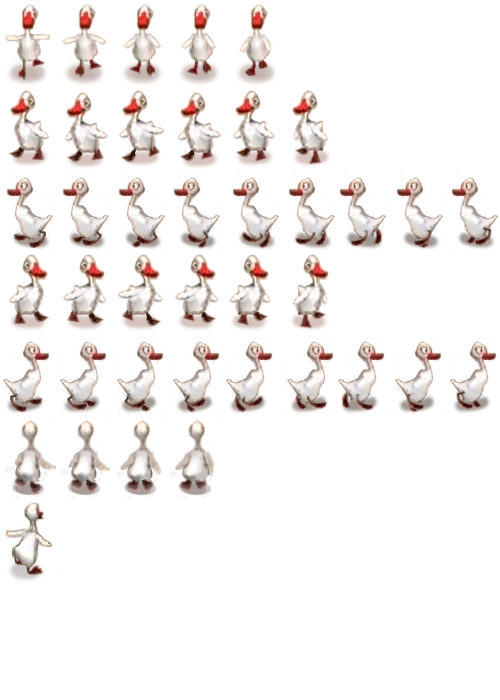
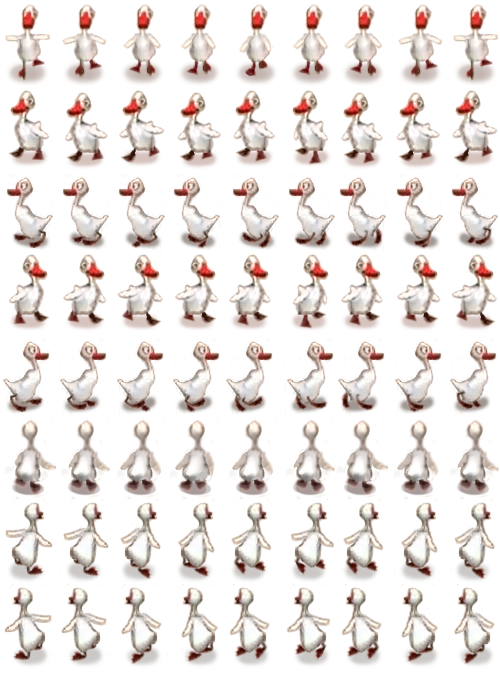
duck animation

diff --git a/main.cpp b/main.cpp
@@ -7,121 +7,16 @@ class Ferma : public app::GameApp {
 
  private:
   void Initialize() override {
-    // Тут загружаем ресурсы: картинки и прочее
     render::LoadResource("resources/images/egg.png", "egg"); 
     render::LoadResource("resources/images/backdrop.png", "backdrop");
     render::LoadResource("resources/images/duck.png", "duck");
-    
-    render::LoadResource("resources/images/d_r1.png", "d_r1"); 
-    render::LoadResource("resources/images/d_r2.png", "d_r2"); 
-    render::LoadResource("resources/images/d_r3.png", "d_r3"); 
-    render::LoadResource("resources/images/d_r4.png", "d_r4"); 
-    render::LoadResource("resources/images/d_r5.png", "d_r5"); 
-    render::LoadResource("resources/images/d_r6.png", "d_r6"); 
-    render::LoadResource("resources/images/d_r7.png", "d_r7"); 
-    render::LoadResource("resources/images/d_r8.png", "d_r8"); 
-    render::LoadResource("resources/images/d_r9.png", "d_r9");
-
-    render::LoadResource("resources/images/d_l1.png", "d_l1"); 
-    render::LoadResource("resources/images/d_l2.png", "d_l2"); 
-    render::LoadResource("resources/images/d_l3.png", "d_l3"); 
-    render::LoadResource("resources/images/d_l4.png", "d_l4"); 
-    render::LoadResource("resources/images/d_l5.png", "d_l5"); 
-    render::LoadResource("resources/images/d_l6.png", "d_l6"); 
-    render::LoadResource("resources/images/d_l7.png", "d_l7"); 
-    render::LoadResource("resources/images/d_l8.png", "d_l8"); 
-    render::LoadResource("resources/images/d_l9.png", "d_l9");
-
-    render::LoadResource("resources/images/d_u1.png", "d_u1"); 
-    render::LoadResource("resources/images/d_u2.png", "d_u2"); 
-    render::LoadResource("resources/images/d_u3.png", "d_u3"); 
-    render::LoadResource("resources/images/d_u4.png", "d_u4"); 
-
-    render::LoadResource("resources/images/d_d1.png", "d_d1"); 
-    render::LoadResource("resources/images/d_d2.png", "d_d2"); 
-    render::LoadResource("resources/images/d_d3.png", "d_d3"); 
-    render::LoadResource("resources/images/d_d4.png", "d_d4"); 
-    render::LoadResource("resources/images/d_d5.png", "d_d5"); 
-
-    render::LoadResource("resources/images/d_l_d1.png", "d_l_d1"); 
-    render::LoadResource("resources/images/d_l_d2.png", "d_l_d2"); 
-    render::LoadResource("resources/images/d_l_d3.png", "d_l_d3"); 
-    render::LoadResource("resources/images/d_l_d4.png", "d_l_d4"); 
-    render::LoadResource("resources/images/d_l_d5.png", "d_l_d5"); 
-    render::LoadResource("resources/images/d_l_d5.png", "d_l_d6"); 
-
-    render::LoadResource("resources/images/d_r_d1.png", "d_r_d1"); 
-    render::LoadResource("resources/images/d_r_d2.png", "d_r_d2"); 
-    render::LoadResource("resources/images/d_r_d3.png", "d_r_d3"); 
-    render::LoadResource("resources/images/d_r_d4.png", "d_r_d4"); 
-    render::LoadResource("resources/images/d_r_d5.png", "d_r_d5"); 
-    render::LoadResource("resources/images/d_r_d5.png", "d_r_d6"); 
-
   }
 
   void Render() override {
-    // тут всё рисуем
-    render::DrawImage("backdrop", 1, 1, 800, 600); // в координатах x, y рисуем ресурс с именем "apple"
-    //render::DrawImage("egg", x, y); // в координатах x, y рисуем ресурс с именем "apple"
-    if ((x % 20)/2 == 0 && left == 1 && down == 1) render::DrawImage("d_l_d1", x, y);
-    else if ((x % 20)/2 == 1 && left == 1 && down == 1) render::DrawImage("d_l_d2", x, y);
-    else if ((x % 20)/2 == 2 && left == 1 && down == 1) render::DrawImage("d_l_d3", x, y);
-    else if ((x % 20)/2 == 3 && left == 1 && down == 1) render::DrawImage("d_l_d4", x, y);
-    else if ((x % 20)/2 == 4 && left == 1 && down == 1) render::DrawImage("d_l_d5", x, y);
-    else if ((x % 20)/2 == 5 && left == 1 && down == 1) render::DrawImage("d_l_d6", x, y);
-    else if ((x % 20)/2 == 6 && left == 1 && down == 1) render::DrawImage("d_l_d5", x, y);
-    else if ((x % 20)/2 == 7 && left == 1 && down == 1) render::DrawImage("d_l_d4", x, y);
-    else if ((x % 20)/2 == 8 && left == 1 && down == 1) render::DrawImage("d_l_d3", x, y);
-    else if ((x % 20)/2 == 9 && left == 1 && down == 1) render::DrawImage("d_l_d2", x, y);
+    render::DrawImage("backdrop", 1, 1, 800, 600);
 
-    else if ((x % 20)/2 == 0 && right == 1 && down == 1) render::DrawImage("d_r_d1", x, y);
-    else if ((x % 20)/2 == 1 && right == 1 && down == 1) render::DrawImage("d_r_d2", x, y);
-    else if ((x % 20)/2 == 2 && right == 1 && down == 1) render::DrawImage("d_r_d3", x, y);
-    else if ((x % 20)/2 == 3 && right == 1 && down == 1) render::DrawImage("d_r_d4", x, y);
-    else if ((x % 20)/2 == 4 && right == 1 && down == 1) render::DrawImage("d_r_d5", x, y);
-    else if ((x % 20)/2 == 5 && right == 1 && down == 1) render::DrawImage("d_r_d6", x, y);
-    else if ((x % 20)/2 == 6 && right == 1 && down == 1) render::DrawImage("d_r_d5", x, y);
-    else if ((x % 20)/2 == 7 && right == 1 && down == 1) render::DrawImage("d_r_d4", x, y);
-    else if ((x % 20)/2 == 8 && right == 1 && down == 1) render::DrawImage("d_r_d3", x, y);
-    else if ((x % 20)/2 == 9 && right == 1 && down == 1) render::DrawImage("d_r_d2", x, y);
-
-    else if ((x % 18)/2 == 0 && right == 1) render::DrawImage("d_r1", x, y);
-    else if ((x % 18)/2 == 1 && right == 1) render::DrawImage("d_r2", x, y);
-    else if ((x % 18)/2 == 2 && right == 1) render::DrawImage("d_r3", x, y);
-    else if ((x % 18)/2 == 3 && right == 1) render::DrawImage("d_r4", x, y);
-    else if ((x % 18)/2 == 4 && right == 1) render::DrawImage("d_r5", x, y);
-    else if ((x % 18)/2 == 5 && right == 1) render::DrawImage("d_r6", x, y);
-    else if ((x % 18)/2 == 6 && right == 1) render::DrawImage("d_r7", x, y);
-    else if ((x % 18)/2 == 7 && right == 1) render::DrawImage("d_r8", x, y);
-    else if ((x % 18)/2 == 8 && right == 1) render::DrawImage("d_r9", x, y);
-
-    else if ((x % 18)/2 == 0 && left == 1) render::DrawImage("d_l1", x, y);
-    else if ((x % 18)/2 == 1 && left == 1) render::DrawImage("d_l2", x, y);
-    else if ((x % 18)/2 == 2 && left == 1) render::DrawImage("d_l3", x, y);
-    else if ((x % 18)/2 == 3 && left == 1) render::DrawImage("d_l4", x, y);
-    else if ((x % 18)/2 == 4 && left == 1) render::DrawImage("d_l5", x, y);
-    else if ((x % 18)/2 == 5 && left == 1) render::DrawImage("d_l6", x, y);
-    else if ((x % 18)/2 == 6 && left == 1) render::DrawImage("d_l7", x, y);
-    else if ((x % 18)/2 == 7 && left == 1) render::DrawImage("d_l8", x, y);
-    else if ((x % 18)/2 == 8 && left == 1) render::DrawImage("d_l9", x, y);
-
-    else if ((y % 12)/2 == 0 && up == 1) render::DrawImage("d_u1", x, y);
-    else if ((y % 12)/2 == 1 && up == 1) render::DrawImage("d_u2", x, y);
-    else if ((y % 12)/2 == 2 && up == 1) render::DrawImage("d_u3", x, y);
-    else if ((y % 12)/2 == 3 && up == 1) render::DrawImage("d_u4", x, y);
-    else if ((y % 12)/2 == 4 && up == 1) render::DrawImage("d_u3", x, y);
-    else if ((y % 12)/2 == 5 && up == 1) render::DrawImage("d_u2", x, y);
-
-    else if ((y % 16)/2 == 0 && down == 1) render::DrawImage("d_d1", x, y);
-    else if ((y % 16)/2 == 1 && down == 1) render::DrawImage("d_d2", x, y);
-    else if ((y % 16)/2 == 2 && down == 1) render::DrawImage("d_d3", x, y);
-    else if ((y % 16)/2 == 3 && down == 1) render::DrawImage("d_d4", x, y);
-    else if ((y % 16)/2 == 4 && down == 1) render::DrawImage("d_d5", x, y);
-    else if ((y % 16)/2 == 5 && down == 1) render::DrawImage("d_d4", x, y);
-    else if ((y % 16)/2 == 6 && down == 1) render::DrawImage("d_d3", x, y);
-    else if ((y % 16)/2 == 7 && down == 1) render::DrawImage("d_d2", x, y);
-
-    else render::DrawImage("d_d3", x, y);
+    int image = (left*down) + 2*(left*!up*!down) + 3*(right*down) + 4*(right*!up*!down) + 5*(up*!right*!left) + 6*(up*right) + 7*(up*left); 
+    render::DrawImageFromAtlas("duck", x, y, 56, 83, ((frame % 27)/3)*56, image*83, 56, 83);
     
     right = 0;
     left = 0;
@@ -139,7 +34,10 @@ class Ferma : public app::GameApp {
       {--y; up = 1;}
     if (keyboard[SDL_SCANCODE_DOWN])
       {++y; down = 1;}
+
+    if (left + right + up + down > 0) frame++;    
   }
+
 
   // void OnWindowResized(int widht, int height) override  { 
   //   //тут запоминаем размеры окна и используем потом в Render 
@@ -159,6 +57,7 @@ class Ferma : public app::GameApp {
   int x = 300;
   int y = 300;
   int up = 0, down = 0, right = 0, left = 0;
+  int frame = 0;
   Uint32 millis_ = 0;
 };
 
